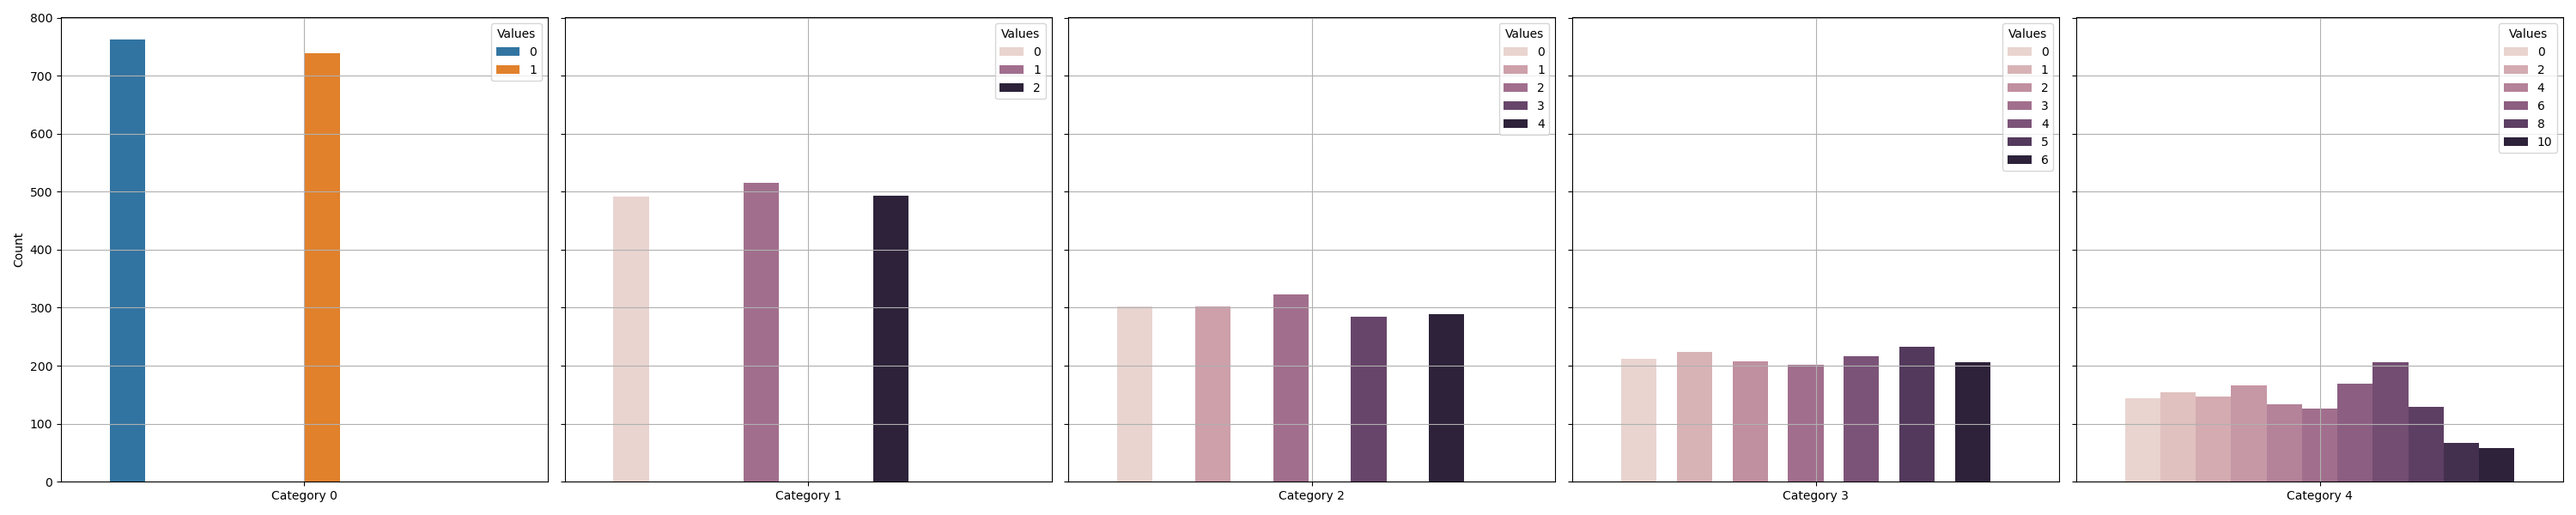
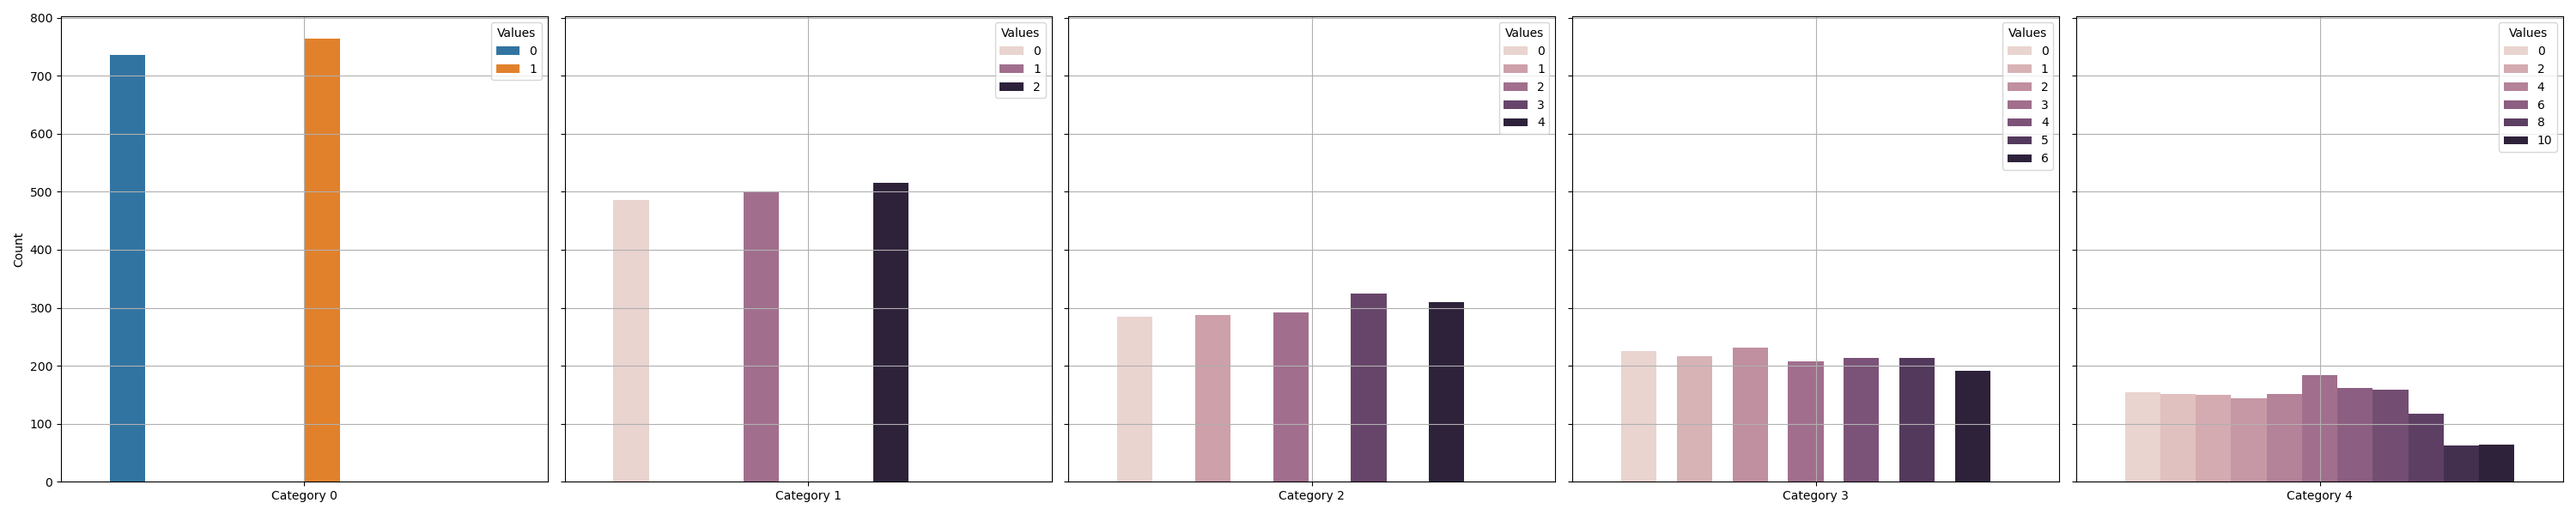
update

diff --git a/src/denoising_diffusion_pm.py b/src/denoising_diffusion_pm.py
@@ -1,6 +1,5 @@
 import sys 
 import os
-sys.path.append(os.path.abspath('..'))
 import numpy as np
 import pandas as pd
 import copy
@@ -344,7 +343,7 @@ class DDPMAnomalyCorrection(DDPM):
               epochs=64,
               beta_ema=0.999,
               plot_data=False,
-              structure=None,
+              proba=None,
               original_data_name='ddpm_original_data',
               wandb_track=False):
         
@@ -352,11 +351,10 @@ class DDPMAnomalyCorrection(DDPM):
         x_indices = dataset.values
         
         if plot_data:
-            assert structure is not None, 'The structure must be provided'
-            plot_categories(x_indices, structure, original_data_name, save_locally=plot_data) 
-        
-        x_indices_tensor = torch.tensor(x_indices, dtype=torch.float32)
-        tensor_dataset =  TensorDataset(x_indices_tensor)
+            assert proba is not None, 'The structure must be provided'
+            plot_categories(x_indices, proba.structure, original_data_name, save_locally=plot_data) 
+        x_logits_tensor = torch.tensor(proba.values_to_logits(x_indices), dtype=torch.float32)
+        tensor_dataset =  TensorDataset(x_logits_tensor)
         dataloader = DataLoader(tensor_dataset, batch_size=batch_size, shuffle=True)
         
         loss = super().train(dataloader=dataloader,
@@ -373,12 +371,14 @@ class DDPMAnomalyCorrection(DDPM):
                sampled_data_name='ddpm_sampled_data',
                ):
         
+        assert proba is not None, 'The probabilities object must be provided'
+        
         sampled_logits = super().sample(samples=num_samples)[0]
         
-        if plot_data and proba is not None:
-            x_indices_sampled = proba.logits_to_values(sampled_logits.cpu().numpy())
-        
-        plot_categories(x_indices_sampled, sampled_data_name, save_locally=plot_data)
+        x_indices_sampled = proba.logits_to_values(sampled_logits.cpu().numpy())
+            
+        if plot_data:
+            plot_categories(x_indices_sampled, sampled_data_name, save_locally=plot_data)
         
         return x_indices_sampled
     

diff --git a/src/anomaly_correction.py b/src/anomaly_correction.py
@@ -1,13 +1,14 @@
 import os
+import sys
 import torch
 import pandas as pd
 import numpy as np
-from src.datasets import DatabaseInterface
+from datasets import DatabaseInterface
 from utils import cprint, bcolors, Probabilities
 from copy import deepcopy
 
-from .denoising_diffusion_pm import DDPMAnomalyCorrection as Diffusion
-from .utils import plot_categories, plot_loss
+from denoising_diffusion_pm import DDPMAnomalyCorrection as Diffusion
+from utils import plot_categories, plot_loss
 
 
 # set default type to avoid problems with gradient
@@ -340,8 +341,8 @@ class ClassificationModel:
 
 
 
-def main(data_path='..\\datasets\\sum_limit_problem.csv',
-         model_path='..\\models\\anomaly_correction_model.pkl',
+def main(data_path='../datasets/sum_limit_problem.csv',
+         model_path='../models/anomaly_correction_model.pkl',
          hidden=10, loss_fn=torch.nn.MSELoss(), n_epochs=250):
     np.random.seed(42)
 
@@ -379,7 +380,7 @@ def main(data_path='..\\datasets\\sum_limit_problem.csv',
     # The diffusion model
     # self.ddpm_scheduler = None
     data_diff_x = anomaly_correction.get_diffusion_dataset()
-    dataset_shape = data_diff_x.shape
+    dataset_shape = [1, sum(anomaly_correction.structure)]
     
     # in index space
     print(data_diff_x)
@@ -405,10 +406,10 @@ def main(data_path='..\\datasets\\sum_limit_problem.csv',
         train_losses = diffusion.train(data_diff_x, 
                                        batch_size=16,
                                        learning_rate=1e-3,
-                                       n_epochs=100,
+                                       epochs=100,
                                        beta_ema=0.999,
                                        plot_data=True,
-                                       structure=anomaly.structure, 
+                                       proba=anomaly_correction.proba, 
                                        original_data_name='ddpm_original_data')
         loss_name = 'ddpm_loss'
         

diff --git a/scripts/run_diffusion.py b/scripts/run_diffusion.py
@@ -183,6 +183,8 @@ def main_sum_categorical_data():
     dataloader = dataset_generator.get_dataloader(with_labels=False)
     dataset_shape = dataset_generator.get_dataset_shape() 
 
+    print(dataset_shape)
+    
     # Plot the original distribution
     # Later we plot the generated samples to see compare if the distribution is similar
     plot_categories(dataset_generator.label_values, structure, original_data_name, 
@@ -229,6 +231,7 @@ def main_sum_categorical_data():
     dataset_generator = SumCategoricalDataset(size, structure, threshold)
     data_to_inpaint = dataset_generator.get_features_with_mask(label_values_mask=True)
     dataset_shape = dataset_generator.get_dataset_shape()
+    print(dataset_shape)
     x, mask = data_to_inpaint['x'], data_to_inpaint['mask']
 
     #!INPAINTING------------------------------------------------------------------

diff --git a/src/datasets.py b/src/datasets.py
@@ -2,7 +2,7 @@ import numpy as np
 import torch
 import pandas as pd
 from torch.utils.data import TensorDataset, DataLoader
-from src.utils import Probabilities
+from utils import Probabilities
 
 
 class DatabaseInterface:

diff --git a/src/modules.py b/src/modules.py
@@ -28,6 +28,7 @@ class FeedForwardKernel(BaseArchitectureKernel):
         self.net = nn.Sequential(*layers)
         
     def forward(self, x):
+        x = x.float()
         return self.net(x)
     
     
